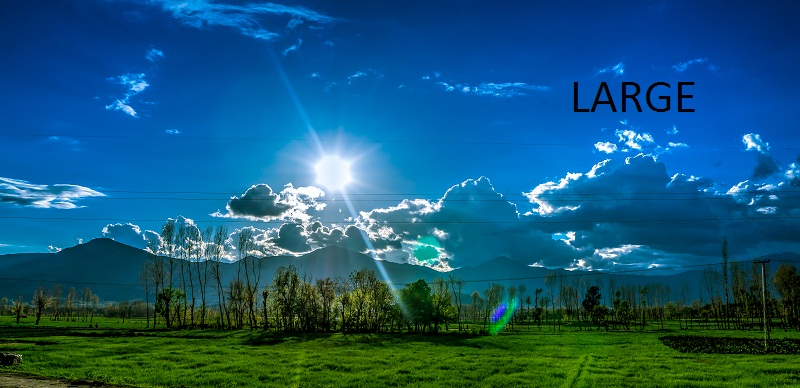
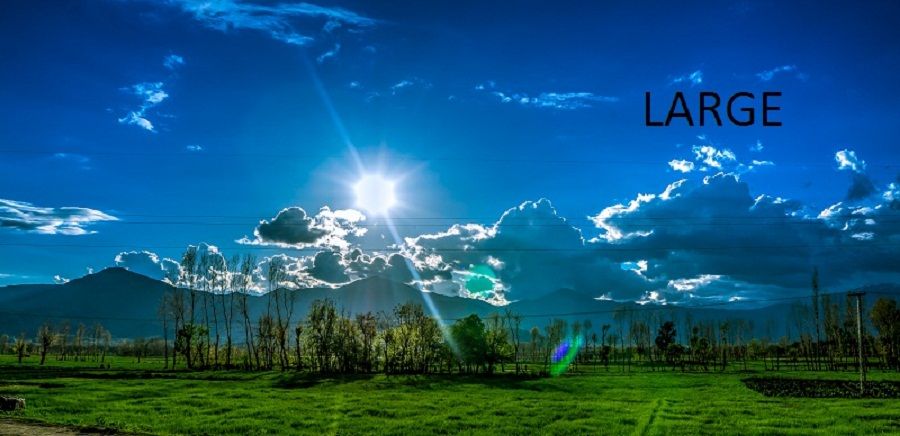
inm

diff --git a/lesson6/preston-6.html b/lesson6/preston-6.html
@@ -41,7 +41,7 @@
     <main>
       <h2>Preston Idaho</h2>
       <picture>
-      <img src="../lesson6/images/calm.jpg" alt="calm">
+      <img src="../lesson6/images/wdd230_image_franklin800.jpg" alt="calm">
       </picture>
       <section id="summary">
         <h2 class="weathersummary">Weather Summary</h2>
